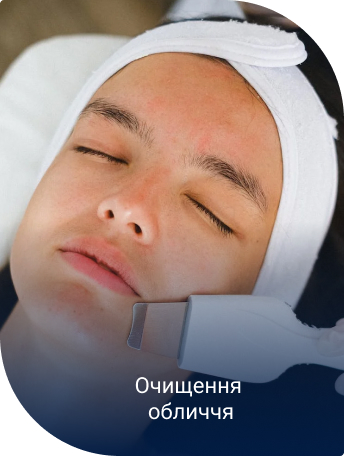
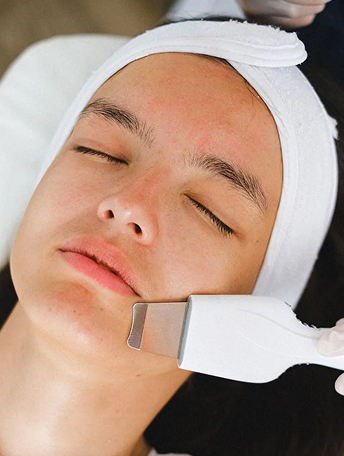
Refreshed adaptive feature in sections, replaced previous images with better quality ones and added design features to them.

diff --git a/scss/main.min.css b/scss/main.min.css
@@ -1,1 +1,1 @@
-@font-face{font-display:swap;font-family:"Play";font-style:normal;font-weight:400;src:url("../fonts/play-v19-latin-regular.woff2") format("woff2")}@font-face{font-display:swap;font-family:"Play";font-style:normal;font-weight:700;src:url("../fonts/play-v19-latin-700.woff2") format("woff2")}@font-face{font-display:swap;font-family:"Roboto";font-style:normal;font-weight:400;src:url("../fonts/roboto-v47-latin-regular.woff2") format("woff2")}@font-face{font-display:swap;font-family:"Roboto";font-style:normal;font-weight:600;src:url("../fonts/roboto-v47-latin-600.woff2") format("woff2")}:root{--color-primary-dark-blue: #011c44;--color-primary-light-blue: #2b7fff;--color-primary-white: #ffffff;--color-secondary-dark-blue: #011f4a;--color-secondary-light-gray: #747272;--color-secondary-dark-gray: #4a4a4a;--font-brand-primary: "Roboto", sans-serif;--font-brand-secondary: "Play", sans-serif}*,*::before,*::after{-webkit-box-sizing:border-box;box-sizing:border-box}body{margin:0;color:var(--color-primary-dark-blue);font-family:var(--font-brand-primary);font-weight:400}img{display:block;max-width:100%;height:auto;-o-object-fit:cover;object-fit:cover}h1,h2,h3,h4,h5,h6,p{margin-top:0}a{display:inline-block}address{font-style:normal}ul{margin:0;padding:0;list-style-type:none}.text-brand{color:var(--color-primary-light-blue)}.text-bold{font-weight:600}.text-capitalized{text-transform:capitalize}.visually-hidden{position:absolute;left:-10000px;top:auto;width:1px;height:1px;overflow:hidden}.button{margin-bottom:14px;padding:16px 32px;font-family:var(--font-brand-primary);font-weight:600;font-size:18px;line-height:1.2;letter-spacing:.7px;color:var(--color-primary-white);border-radius:32px;background-color:var(--color-primary-light-blue);border:2px solid var(--color-primary-light-blue);cursor:pointer;-webkit-transition:border .2s,background-color .2s,color .2s;transition:border .2s,background-color .2s,color .2s}.button:hover{border-color:var(--color-primary-light-blue);background-color:rgba(0,0,0,0);color:var(--color-primary-dark-blue)}.carousel-button{display:-webkit-box;display:-ms-flexbox;display:flex;-webkit-box-align:center;-ms-flex-align:center;align-items:center;-webkit-box-pack:center;-ms-flex-pack:center;justify-content:center;-ms-flex-negative:0;flex-shrink:0;width:44px;height:44px;padding:0;fill:var(--color-primary-dark-blue);background-color:rgba(0,0,0,0);border-radius:50%;border:1px solid var(--color-primary-dark-blue);cursor:pointer;-webkit-transition:background-color ease-out .5s,fill .3s,border .3s;transition:background-color ease-out .5s,fill .3s,border .3s}.carousel-button:hover{background-color:var(--color-primary-light-blue);fill:var(--color-primary-white);border:rgba(0,0,0,0)}.carousel-button.next{-webkit-transform:rotate(180deg);transform:rotate(180deg)}.input{position:relative}.input__label{position:absolute;top:18px;left:32px}.input__control{padding:16px 24px;width:100%;border:2px solid var(--color-secondary-light-gray);border-radius:32px;background-color:rgba(0,0,0,0)}@media screen and (min-width: 768px){.input__control{padding:18px 32px}}.input__control:focus{background-color:var(--color-secondary-light-gray);outline:none}.input__control::-webkit-input-placeholder{color:var(--color-primary-white);font-size:13px;line-height:1.5}.input__control::-moz-placeholder{color:var(--color-primary-white);font-size:13px;line-height:1.5}.input__control:-ms-input-placeholder{color:var(--color-primary-white);font-size:13px;line-height:1.5}.input__control::-ms-input-placeholder{color:var(--color-primary-white);font-size:13px;line-height:1.5}.input__control::placeholder{color:var(--color-primary-white);font-size:13px;line-height:1.5}.pagination{display:-webkit-box;display:-ms-flexbox;display:flex;-webkit-box-align:center;-ms-flex-align:center;align-items:center;-webkit-box-pack:center;-ms-flex-pack:center;justify-content:center;gap:24px}.pagination__button{width:12px;height:12px;padding:0;background-color:var(--color-secondary-light-gray);border-radius:50%}.pagination__button--active{background-color:var(--color-primary-light-blue)}.why-us-card__text{font-size:18px;line-height:1.3;text-align:center;color:#000}.why-us-card__icon{display:block;margin:0 auto;padding-bottom:8px;fill:var(--color-primary-light-blue)}.about-us-section{padding-top:0}@media screen and (min-width: 768px){.about-us-section{padding-top:63px}}.about-us-section__container{display:-webkit-box;display:-ms-flexbox;display:flex;-webkit-box-align:start;-ms-flex-align:start;align-items:flex-start;-webkit-box-pack:justify;-ms-flex-pack:justify;justify-content:space-between;gap:40px}.about-us-section__content{max-width:710px}.about-us-section__text{font-size:18px;line-height:1.7;color:var(--color-primary-dark-blue)}@media screen and (min-width: 768px){.about-us-section__text{font-size:22px;text-align:left}}.about-us-section__title{margin-bottom:24px;font-family:var(--font-brand-secondary);font-size:32px;font-weight:700;text-align:start;line-height:1.5}@media screen and (min-width: 768px){.about-us-section__title{font-size:64px;margin-bottom:40px}}.about-us-section__we-offer{margin-bottom:40px}.about-us-section__we-guarantee{margin-bottom:0}.about-us-section__woman-procedure{display:none}@media screen and (min-width: 1280px){.about-us-section__woman-procedure{position:relative;display:block}}.about-us-section__woman-before{border-radius:50%;-webkit-box-shadow:0 4px 4px 0 rgba(168,198,245,.2);box-shadow:0 4px 4px 0 rgba(168,198,245,.2);-webkit-transform:translateX(-169px);transform:translateX(-169px)}.about-us-section__icon-star-1{width:64px;height:64px;position:absolute;left:-50px;bottom:230px;fill:var(--color-secondary-dark-blue);-webkit-animation:scale 5s infinite linear;animation:scale 5s infinite linear}.about-us-section__icon-star-2{width:40px;height:40px;position:absolute;right:0;top:40px;fill:var(--color-primary-light-blue);-webkit-animation:scale 4s infinite linear;animation:scale 4s infinite linear}.about-us-section__icon-star-3{width:16px;height:16px;position:absolute;right:40px;top:260px;fill:var(--color-secondary-light-gray);-webkit-animation:scale 3s infinite linear;animation:scale 3s infinite linear}@-webkit-keyframes scale{0%{-webkit-transform:scale(1);transform:scale(1)}50%{-webkit-transform:scale(1.5);transform:scale(1.5)}100%{-webkit-transform:scale(1);transform:scale(1)}}@keyframes scale{0%{-webkit-transform:scale(1);transform:scale(1)}50%{-webkit-transform:scale(1.5);transform:scale(1.5)}100%{-webkit-transform:scale(1);transform:scale(1)}}.about-us-section__woman-after{border-radius:50%;-webkit-box-shadow:0 4px 4px 0 rgba(168,198,245,.2);box-shadow:0 4px 4px 0 rgba(168,198,245,.2);-webkit-transform:translateY(40px);transform:translateY(40px)}.contact-section{padding-bottom:0}@media screen and (min-width: 768px){.contact-section{padding-bottom:96px}}.contact-section__content{display:-webkit-box;display:-ms-flexbox;display:flex;-webkit-box-orient:vertical;-webkit-box-direction:normal;-ms-flex-direction:column;flex-direction:column;gap:24px}@media screen and (min-width: 768px){.contact-section__content{-webkit-box-orient:horizontal;-webkit-box-direction:normal;-ms-flex-direction:row;flex-direction:row;-webkit-box-pack:center;-ms-flex-pack:center;justify-content:center;max-width:1060px;margin:0 auto;gap:32px}}.contact-section__map{border:none;margin:0 -24px;height:232px;-ms-flex-negative:0;flex-shrink:0}@media screen and (min-width: 768px){.contact-section__map{margin:auto;border-radius:32px;width:420px;height:514px}}@media screen and (min-width: 1280px){.contact-section__map{width:604px;height:496px}}.contact-section__form-container{border-radius:32px;padding:48px 56px;background-image:url(../images/form-background.png);background-color:var(--color-primary-dark-blue);background-position:center;background-repeat:no-repeat;background-size:cover}.contact-section__form-title{margin-bottom:32px;font-size:22px;text-align:center;color:var(--color-primary-white)}.contact-section__form-field{margin-bottom:16px}.contact-section__button{display:block;margin:0 auto 8px;-webkit-transition:border .2s,background-color .2s,color .2s;transition:border .2s,background-color .2s,color .2s}.contact-section__button:hover{border-color:var(--color-primary-light-blue);background-color:rgba(0,0,0,0);color:var(--color-primary-white)}.container{width:100%;max-width:1288px;margin:0 auto;padding:0 24px}.footer{position:relative;padding:56px 0;background-image:url(../images/footer-background.png);background-color:var(--color-primary-dark-blue);background-position:center;background-repeat:no-repeat;background-size:cover}.footer::after{position:absolute;width:258px;height:152px;right:-10px;bottom:0;background-repeat:no-repeat;background-image:url("../images/decor-cosmetic-bottles.png");content:""}.footer__content{display:-webkit-box;display:-ms-flexbox;display:flex;-webkit-box-orient:vertical;-webkit-box-direction:normal;-ms-flex-direction:column;flex-direction:column}@media screen and (min-width: 768px){.footer__content{-webkit-box-orient:horizontal;-webkit-box-direction:normal;-ms-flex-direction:row;flex-direction:row;gap:50px}}.footer__nav,.footer__address{display:-webkit-box;display:-ms-flexbox;display:flex;-webkit-box-orient:vertical;-webkit-box-direction:normal;-ms-flex-direction:column;flex-direction:column;text-align:center}@media screen and (min-width: 768px){.footer__nav,.footer__address{-webkit-box-orient:horizontal;-webkit-box-direction:normal;-ms-flex-direction:row;flex-direction:row;text-align:left;-ms-flex-preferred-size:50%;flex-basis:50%;gap:50px}}.footer__logo,.footer__menu{-webkit-box-flex:1;-ms-flex-positive:1;flex-grow:1}.footer__logo{margin-bottom:42px}@media screen and (min-width: 768px){.footer__logo{margin-bottom:0}}.footer__address-list,.footer__address-info{-webkit-box-flex:1;-ms-flex-positive:1;flex-grow:1}.footer__address-list{display:none}@media screen and (min-width: 768px){.footer__address-list{display:block}}.footer__address-contacts{margin-bottom:16px}@media screen and (min-width: 768px){.footer__address-contacts{margin-bottom:0}}.footer__link,.footer__address-link{margin-bottom:16px;font-size:16px;color:var(--color-primary-white);text-decoration:none;-webkit-transition:color .2s;transition:color .2s}.footer__link:hover,.footer__link:hover,.footer__address-link:hover,.footer__address-link:hover{color:var(--color-primary-light-blue)}.footer__address-copyright{font-size:13px;color:var(--color-secondary-light-gray)}.footer__contact-icon{width:42px;height:42px;fill:var(--color-primary-white);-webkit-transition:fill .2s;transition:fill .2s}.footer__contact-icon:hover{fill:var(--color-primary-light-blue)}.form-terms{margin:0 auto;max-width:220px;font-size:12px;line-height:1.5;text-align:center;color:var(--color-secondary-light-gray)}.form-terms__link{color:var(--color-secondary-light-gray);-webkit-text-decoration-skip-ink:none;text-decoration-skip-ink:none}.header{padding:0;background:radial-gradient(circle at 18.7% 37.8%, rgb(255, 255, 250) 0%, rgb(245, 244, 244) 47%, rgb(208, 203, 200) 90%)}@media screen and (min-width: 1280px){.header{padding:32px 0;-webkit-backdrop-filter:blur(10px);backdrop-filter:blur(10px);position:absolute;top:0;left:0;width:100%;background:rgba(255,255,255,.25)}}.header__container{display:-webkit-box;display:-ms-flexbox;display:flex;-webkit-box-align:center;-ms-flex-align:center;align-items:center;gap:40px}.header__nav{display:-webkit-box;display:-ms-flexbox;display:flex;-webkit-box-align:center;-ms-flex-align:center;align-items:center;-webkit-box-flex:1;-ms-flex-positive:1;flex-grow:1;gap:40px}.header__menu{display:none}@media screen and (min-width: 1280px){.header__menu{display:-webkit-box;display:-ms-flexbox;display:flex;gap:56px;-webkit-box-flex:1;-ms-flex-positive:1;flex-grow:1;-webkit-box-pack:center;-ms-flex-pack:center;justify-content:center}}.header__link{color:var(--color-primary-dark-blue);font-weight:700;font-size:18px;text-decoration:none;-webkit-transition:color .2s;transition:color .2s}.header__link:hover{color:var(--color-primary-light-blue)}.header__contacts{display:none}@media screen and (min-width: 1280px){.header__contacts{display:-webkit-box;display:-ms-flexbox;display:flex;gap:32px}}.header__link-icon{width:32px;height:32px;fill:var(--color-primary-dark-blue);-webkit-transition:fill .2s;transition:fill .2s}.header__link-icon:hover{fill:var(--color-primary-light-blue)}.header__burger{width:24px;height:24px;padding:0;background-color:rgba(0,0,0,0);border:none;fill:var(--color-primary-white)}@media screen and (min-width: 1280px){.header__burger{display:none}}.hero-section{padding:86px 0 18px 0;background-image:linear-gradient(94deg, #fff 9.65%, rgba(255, 255, 255, 0.85) 26.08%, rgba(255, 255, 255, 0.19) 52.74%, rgba(255, 255, 255, 0) 74.46%),url("../images/hero-bg.jpg");background-repeat:no-repeat;background-position:center top;background-size:cover;height:400px;margin:0 auto}@media screen and (min-width: 768px){.hero-section{padding:126px 0 62px 0;max-width:1488px;height:658px}}@media screen and (min-device-pixel-ration: 2),(-webkit-min-device-pixel-ratio: 2),(min-resolution: 192dpi),(min-resolution: 2dppx){.hero-section{background-image:linear-gradient(94deg, #fff 9.65%, rgba(255, 255, 255, 0.85) 26.08%, rgba(255, 255, 255, 0.19) 52.74%, rgba(255, 255, 255, 0) 74.46%),url("../images/hero-bg@2x.jpg")}}@media screen and (min-width: 768px){.hero-section__content{padding-left:88px;max-width:530px}}.hero-section__text-1{margin-bottom:0;font-size:12px;text-align:center;line-height:1.5}@media screen and (min-width: 768px){.hero-section__text-1{margin-bottom:16px;font-size:18px;text-align:left}}.hero-section__title{margin-bottom:32px;font-family:var(--font-brand-secondary);font-weight:700;font-size:54px;text-align:center;line-height:.8;text-transform:capitalize;color:var(--color-primary-light-blue)}@media screen and (min-width: 768px){.hero-section__title{margin-bottom:40px;font-size:140px}}.hero-section__button{display:block;margin:0 auto 8px}@media screen and (min-width: 768px){.hero-section__button{margin:0 0 14px}}.hero-section__text-2{font-size:11px;line-height:1.5;text-align:center}@media screen and (min-width: 768px){.hero-section__text-2{padding-left:15px;text-align:left;font-size:12px;color:var(--color-secondary-dark-gray)}}.mobile-menu{position:fixed;top:0;left:0;width:100%;height:100%;background-color:var(--color-primary-white);-webkit-transform:translateX(100%);transform:translateX(100%);-webkit-transition:-webkit-transform .3s;transition:-webkit-transform .3s;transition:transform .3s;transition:transform .3s, -webkit-transform .3s}.mobile-menu.is-open{-webkit-transform:translateX(0);transform:translateX(0)}.mobile-menu__btn-close{position:absolute;top:22px;right:23px}.backdrop{position:fixed;top:0;left:0;right:0;bottom:0;padding:20px;display:-webkit-box;display:-ms-flexbox;display:flex;-webkit-box-align:center;-ms-flex-align:center;align-items:center;-webkit-box-pack:center;-ms-flex-pack:center;justify-content:center;background-color:rgba(137,149,167,.5);-webkit-transition:opacity .3s,visibility .3s;transition:opacity .3s,visibility .3s}.backdrop.is-hidden{opacity:0;visibility:hidden;pointer-events:none}.modal{position:relative;width:100%;max-width:724px;height:100%;max-height:680px;padding:20px 72px;background-image:url("../images/modal-background.png");background-color:var(--color-primary-dark-blue);border-radius:48px;overflow-y:auto}@media screen and (min-width: 768px){.modal{padding:42px 144px}}.modal__btn-close{position:absolute;top:42px;right:42px}.modal__order-call{margin-bottom:40px;font-weight:700;font-size:64px;text-align:center;color:var(--color-primary-white)}.modal__get-gift{margin-bottom:32px;font-weight:600;font-size:22px;text-align:center;color:var(--color-primary-white)}.modal__form-field{position:relative;margin-bottom:24px}.modal__button{display:block;margin:0 auto 8px}.modal__button:hover{color:var(--color-primary-white)}.procedures-section__slider{display:-webkit-box;display:-ms-flexbox;display:flex;-webkit-box-align:center;-ms-flex-align:center;align-items:center;-webkit-box-pack:center;-ms-flex-pack:center;justify-content:center;gap:32px}.procedures-section__container{overflow:hidden}.procedures-section__list{margin-bottom:32px}.procedures-section__button{display:none}@media screen and (min-width: 768px){.procedures-section__button{display:-webkit-box;display:-ms-flexbox;display:flex}}.section{padding:20px 0}@media screen and (min-width: 768px){.section{padding:48px 0}}.section__title{font-family:var(--font-brand-secondary);font-weight:700;font-size:32px;text-align:center;color:var(--color-primary-dark-blue);margin-bottom:24px}@media screen and (min-width: 768px){.section__title{font-size:64px;margin-bottom:48px}}.sections-background{background-image:url(../images/why-us-background.png);background-position:center top;background-repeat:no-repeat;background-size:cover;margin:0 auto;width:100%;max-width:1440px;height:100%;max-height:1507px}.why-us-section{padding-top:100px}@media screen and (min-width: 768px){.why-us-section{padding-top:176px}}.why-us-section__list{display:-webkit-box;display:-ms-flexbox;display:flex;-webkit-box-orient:vertical;-webkit-box-direction:normal;-ms-flex-direction:column;flex-direction:column;-webkit-box-align:center;-ms-flex-align:center;align-items:center;-ms-flex-wrap:wrap;flex-wrap:wrap;gap:16px}@media screen and (min-width: 768px){.why-us-section__list{-webkit-box-orient:horizontal;-webkit-box-direction:normal;-ms-flex-direction:row;flex-direction:row;-webkit-box-pack:center;-ms-flex-pack:center;justify-content:center;gap:56px}}.why-us-section__item{border:1px solid #0950d3;border-radius:32px;-webkit-box-shadow:0 4px 4px 0 rgba(168,198,245,.38);box-shadow:0 4px 4px 0 rgba(168,198,245,.38);background:var(--color-primary-white);padding:24px 32px;max-width:316px}/*# sourceMappingURL=main.min.css.map */
+@font-face{font-display:swap;font-family:"Play";font-style:normal;font-weight:400;src:url("../fonts/play-v19-latin-regular.woff2") format("woff2")}@font-face{font-display:swap;font-family:"Play";font-style:normal;font-weight:700;src:url("../fonts/play-v19-latin-700.woff2") format("woff2")}@font-face{font-display:swap;font-family:"Roboto";font-style:normal;font-weight:400;src:url("../fonts/roboto-v47-latin-regular.woff2") format("woff2")}@font-face{font-display:swap;font-family:"Roboto";font-style:normal;font-weight:600;src:url("../fonts/roboto-v47-latin-600.woff2") format("woff2")}:root{--color-primary-dark-blue: #011c44;--color-primary-light-blue: #2b7fff;--color-primary-white: #ffffff;--color-secondary-dark-blue: #011f4a;--color-secondary-light-gray: #747272;--color-secondary-dark-gray: #4a4a4a;--font-brand-primary: "Roboto", sans-serif;--font-brand-secondary: "Play", sans-serif}*,*::before,*::after{-webkit-box-sizing:border-box;box-sizing:border-box}html{scroll-behavior:smooth}body{margin:0 auto;color:var(--color-primary-dark-blue);font-family:var(--font-brand-primary);font-weight:400;line-height:1.5;max-width:1488px}img{display:block;max-width:100%;height:auto;-o-object-fit:cover;object-fit:cover}h1,h2,h3,h4,h5,h6,p{margin-top:0}a{display:inline-block}address{font-style:normal}ul{margin:0;padding:0;list-style-type:none}.text-brand{color:var(--color-primary-light-blue)}.text-bold{font-weight:600}.text-capitalized{text-transform:capitalize}.visually-hidden{position:absolute;left:-10000px;top:auto;width:1px;height:1px;overflow:hidden}.button{margin-bottom:14px;padding:16px 32px;font-family:var(--font-brand-primary);font-weight:600;font-size:18px;line-height:1.2;letter-spacing:.7px;color:var(--color-primary-white);border-radius:32px;background-color:var(--color-primary-light-blue);border:2px solid var(--color-primary-light-blue);cursor:pointer;-webkit-transition:border .2s,background-color .2s,color .2s;transition:border .2s,background-color .2s,color .2s}.button:hover{border-color:var(--color-primary-light-blue);background-color:rgba(0,0,0,0);color:var(--color-primary-dark-blue)}.carousel-button{display:-webkit-box;display:-ms-flexbox;display:flex;-webkit-box-align:center;-ms-flex-align:center;align-items:center;-webkit-box-pack:center;-ms-flex-pack:center;justify-content:center;-ms-flex-negative:0;flex-shrink:0;width:44px;height:44px;padding:0;fill:var(--color-primary-dark-blue);background-color:rgba(0,0,0,0);border-radius:50%;border:1px solid var(--color-primary-dark-blue);cursor:pointer;-webkit-transition:background-color ease-out .5s,fill .3s,border .3s;transition:background-color ease-out .5s,fill .3s,border .3s}.carousel-button:hover{background-color:var(--color-primary-light-blue);fill:var(--color-primary-white);border:rgba(0,0,0,0)}.carousel-button.next{-webkit-transform:rotate(180deg);transform:rotate(180deg)}.input{position:relative}.input__label{position:absolute;top:18px;left:32px}.input__control{padding:16px 24px;width:100%;border:2px solid var(--color-secondary-light-gray);border-radius:32px;background-color:rgba(0,0,0,0)}@media screen and (min-width: 768px){.input__control{padding:18px 32px}}.input__control:focus{background-color:var(--color-secondary-light-gray);outline:none}.input__control::-webkit-input-placeholder{color:var(--color-primary-white);font-size:13px;line-height:1.5}.input__control::-moz-placeholder{color:var(--color-primary-white);font-size:13px;line-height:1.5}.input__control:-ms-input-placeholder{color:var(--color-primary-white);font-size:13px;line-height:1.5}.input__control::-ms-input-placeholder{color:var(--color-primary-white);font-size:13px;line-height:1.5}.input__control::placeholder{color:var(--color-primary-white);font-size:13px;line-height:1.5}.pagination{display:-webkit-box;display:-ms-flexbox;display:flex;-webkit-box-align:center;-ms-flex-align:center;align-items:center;-webkit-box-pack:center;-ms-flex-pack:center;justify-content:center;gap:24px}.pagination__button{width:12px;height:12px;padding:0;background-color:var(--color-secondary-light-gray);border-radius:50%}.pagination__button--active{background-color:var(--color-primary-light-blue)}.procedures-card{position:relative;display:-webkit-box;display:-ms-flexbox;display:flex;-webkit-box-orient:vertical;-webkit-box-direction:normal;-ms-flex-direction:column;flex-direction:column;-webkit-box-pack:end;-ms-flex-pack:end;justify-content:flex-end;height:456px;padding:24px;background-image:-webkit-gradient(linear, left top, left bottom, color-stop(47.4%, rgba(1, 28, 68, 0)), color-stop(82.66%, rgba(1, 28, 68, 0.73)), color-stop(99.06%, var(--color-primary-dark-blue)));background-image:linear-gradient(180deg, rgba(1, 28, 68, 0) 47.4%, rgba(1, 28, 68, 0.73) 82.66%, var(--color-primary-dark-blue) 99.06%);border-radius:4px 120px;overflow:hidden}.procedures-card__img{position:absolute;z-index:-1;top:0;left:0;width:100%;height:100%}.procedures-card__title{font-size:22px;text-align:center;color:var(--color-primary-white)}.why-us-card__text{font-size:18px;line-height:1.3;text-align:center;color:#000}.why-us-card__icon{display:block;margin:0 auto;padding-bottom:8px;fill:var(--color-primary-light-blue)}.about-us-section{padding-top:0}@media screen and (min-width: 768px){.about-us-section{padding-top:63px}}.about-us-section__container{display:-webkit-box;display:-ms-flexbox;display:flex;-webkit-box-align:start;-ms-flex-align:start;align-items:flex-start;-webkit-box-pack:justify;-ms-flex-pack:justify;justify-content:space-between;gap:40px}.about-us-section__content{max-width:710px}.about-us-section__text{font-size:18px;line-height:1.7;color:var(--color-primary-dark-blue)}@media screen and (min-width: 768px){.about-us-section__text{font-size:22px;text-align:left}}.about-us-section__title{margin-bottom:24px;font-family:var(--font-brand-secondary);font-size:32px;font-weight:700;text-align:start}@media screen and (min-width: 768px){.about-us-section__title{font-size:64px;margin-bottom:40px}}.about-us-section__we-offer{margin-bottom:40px}.about-us-section__we-guarantee{margin-bottom:0}.about-us-section__woman-procedure{display:none}@media screen and (min-width: 1280px){.about-us-section__woman-procedure{position:relative;display:block}}.about-us-section__woman-before{border-radius:50%;-webkit-box-shadow:0 4px 4px 0 rgba(168,198,245,.2);box-shadow:0 4px 4px 0 rgba(168,198,245,.2);-webkit-transform:translateX(-169px);transform:translateX(-169px)}.about-us-section__icon-star-1{width:64px;height:64px;position:absolute;left:-50px;bottom:230px;fill:var(--color-secondary-dark-blue);-webkit-animation:scale 5s infinite linear;animation:scale 5s infinite linear}.about-us-section__icon-star-2{width:40px;height:40px;position:absolute;right:0;top:40px;fill:var(--color-primary-light-blue);-webkit-animation:scale 4s infinite linear;animation:scale 4s infinite linear}.about-us-section__icon-star-3{width:16px;height:16px;position:absolute;right:40px;top:260px;fill:var(--color-secondary-light-gray);-webkit-animation:scale 3s infinite linear;animation:scale 3s infinite linear}@-webkit-keyframes scale{0%{-webkit-transform:scale(1);transform:scale(1)}50%{-webkit-transform:scale(1.5);transform:scale(1.5)}100%{-webkit-transform:scale(1);transform:scale(1)}}@keyframes scale{0%{-webkit-transform:scale(1);transform:scale(1)}50%{-webkit-transform:scale(1.5);transform:scale(1.5)}100%{-webkit-transform:scale(1);transform:scale(1)}}.about-us-section__woman-after{border-radius:50%;-webkit-box-shadow:0 4px 4px 0 rgba(168,198,245,.2);box-shadow:0 4px 4px 0 rgba(168,198,245,.2);-webkit-transform:translateY(40px);transform:translateY(40px)}.contact-section{padding-bottom:0}@media screen and (min-width: 768px){.contact-section{padding-bottom:96px}}.contact-section__content{display:-webkit-box;display:-ms-flexbox;display:flex;-webkit-box-orient:vertical;-webkit-box-direction:normal;-ms-flex-direction:column;flex-direction:column;gap:24px}@media screen and (min-width: 768px){.contact-section__content{-webkit-box-orient:horizontal;-webkit-box-direction:normal;-ms-flex-direction:row;flex-direction:row;-webkit-box-pack:center;-ms-flex-pack:center;justify-content:center;max-width:1060px;margin:0 auto;gap:32px}}.contact-section__map{border:none;margin:0 -24px;height:232px;-ms-flex-negative:0;flex-shrink:0}@media screen and (min-width: 768px){.contact-section__map{margin:auto;border-radius:32px;width:420px;height:514px}}@media screen and (min-width: 1280px){.contact-section__map{width:604px;height:496px}}.contact-section__form-container{border-radius:32px;padding:48px 56px;background-image:url(../images/form-background.png);background-color:var(--color-primary-dark-blue);background-position:center;background-repeat:no-repeat;background-size:cover}.contact-section__form-title{margin-bottom:32px;font-size:22px;text-align:center;color:var(--color-primary-white)}.contact-section__form-field{margin-bottom:16px}.contact-section__button{display:block;margin:0 auto 8px;-webkit-transition:border .2s,background-color .2s,color .2s;transition:border .2s,background-color .2s,color .2s}.contact-section__button:hover{border-color:var(--color-primary-light-blue);background-color:rgba(0,0,0,0);color:var(--color-primary-white)}.container{width:100%;max-width:1288px;margin:0 auto;padding:0 24px}.footer{position:relative;padding:56px 0;background-image:url(../images/footer-background.png);background-color:var(--color-primary-dark-blue);background-position:center;background-repeat:no-repeat;background-size:cover}.footer::after{position:absolute;width:258px;height:152px;right:-10px;bottom:0;background-repeat:no-repeat;background-image:url("../images/decor-cosmetic-bottles.png");content:""}.footer__content{display:-webkit-box;display:-ms-flexbox;display:flex;-webkit-box-orient:vertical;-webkit-box-direction:normal;-ms-flex-direction:column;flex-direction:column}@media screen and (min-width: 768px){.footer__content{-webkit-box-orient:horizontal;-webkit-box-direction:normal;-ms-flex-direction:row;flex-direction:row;gap:50px}}.footer__nav,.footer__address{display:-webkit-box;display:-ms-flexbox;display:flex;-webkit-box-orient:vertical;-webkit-box-direction:normal;-ms-flex-direction:column;flex-direction:column;text-align:center}@media screen and (min-width: 768px){.footer__nav,.footer__address{-webkit-box-orient:horizontal;-webkit-box-direction:normal;-ms-flex-direction:row;flex-direction:row;text-align:left;-ms-flex-preferred-size:50%;flex-basis:50%;gap:50px}}.footer__logo,.footer__menu{-webkit-box-flex:1;-ms-flex-positive:1;flex-grow:1}.footer__logo{margin-bottom:42px}@media screen and (min-width: 768px){.footer__logo{margin-bottom:0}}.footer__address-list,.footer__address-info{-webkit-box-flex:1;-ms-flex-positive:1;flex-grow:1}.footer__address-list{display:none}@media screen and (min-width: 768px){.footer__address-list{display:block}}.footer__address-contacts{margin-bottom:16px}@media screen and (min-width: 768px){.footer__address-contacts{margin-bottom:0}}.footer__link,.footer__address-link{margin-bottom:16px;font-size:16px;color:var(--color-primary-white);text-decoration:none;-webkit-transition:color .2s;transition:color .2s}.footer__link:hover,.footer__link:hover,.footer__address-link:hover,.footer__address-link:hover{color:var(--color-primary-light-blue)}.footer__address-copyright{font-size:13px;color:var(--color-secondary-light-gray)}.footer__contact-icon{width:42px;height:42px;fill:var(--color-primary-white);-webkit-transition:fill .2s;transition:fill .2s}.footer__contact-icon:hover{fill:var(--color-primary-light-blue)}.form-terms{margin:0 auto;max-width:220px;font-size:12px;line-height:1.5;text-align:center;color:var(--color-secondary-light-gray)}.form-terms__link{color:var(--color-secondary-light-gray);-webkit-text-decoration-skip-ink:none;text-decoration-skip-ink:none}.header{position:absolute;top:0;left:0;width:100%;padding-top:16px}@media screen and (min-width: 1280px){.header{padding:32px 0;-webkit-backdrop-filter:blur(10px);backdrop-filter:blur(10px);position:absolute;background:rgba(255,255,255,.25)}}.header__container{display:-webkit-box;display:-ms-flexbox;display:flex;-webkit-box-align:center;-ms-flex-align:center;align-items:center;gap:40px}.header__nav{display:-webkit-box;display:-ms-flexbox;display:flex;-webkit-box-align:center;-ms-flex-align:center;align-items:center;-webkit-box-flex:1;-ms-flex-positive:1;flex-grow:1;gap:40px}.header__menu{display:none}@media screen and (min-width: 1280px){.header__menu{display:-webkit-box;display:-ms-flexbox;display:flex;gap:56px;-webkit-box-flex:1;-ms-flex-positive:1;flex-grow:1;-webkit-box-pack:center;-ms-flex-pack:center;justify-content:center}}.header__link{color:var(--color-primary-dark-blue);font-weight:700;font-size:18px;text-decoration:none;-webkit-transition:color .2s;transition:color .2s}.header__link:hover{color:var(--color-primary-light-blue)}.header__contacts{display:none}@media screen and (min-width: 1280px){.header__contacts{display:-webkit-box;display:-ms-flexbox;display:flex;gap:32px}}.header__link-icon{width:32px;height:32px;fill:var(--color-primary-dark-blue);-webkit-transition:fill .2s;transition:fill .2s}.header__link-icon:hover{fill:var(--color-primary-light-blue)}.header__burger{width:24px;height:24px;padding:0;background-color:rgba(0,0,0,0);border:none;fill:var(--color-primary-white)}@media screen and (min-width: 1280px){.header__burger{display:none}}.hero-section{padding:150px 0 40px 0;background-image:linear-gradient(38deg, #fff 0%, rgba(255, 255, 255, 0.78) 31.23%, rgba(255, 255, 255, 0.2) 50.39%, rgba(255, 255, 255, 0) 68.37%),url("../images/hero-bg.jpg");background-repeat:no-repeat;background-position:center top;background-size:cover}@media screen and (min-width: 768px){.hero-section{padding:166px 0}}@media screen and (min-device-pixel-ration: 2),(-webkit-min-device-pixel-ratio: 2),(min-resolution: 192dpi),(min-resolution: 2dppx){.hero-section{background-image:linear-gradient(38deg, #fff 0%, rgba(255, 255, 255, 0.78) 31.23%, rgba(255, 255, 255, 0.2) 50.39%, rgba(255, 255, 255, 0) 68.37%),url("../images/hero-bg@2x.jpg")}}@media screen and (min-width: 768px){.hero-section__content{padding-left:88px;max-width:530px}}.hero-section__text-1{margin-bottom:0;font-size:12px;text-align:center}@media screen and (min-width: 768px){.hero-section__text-1{margin-bottom:16px;font-size:18px;text-align:left}}.hero-section__title{margin-bottom:32px;font-family:var(--font-brand-secondary);font-weight:700;font-size:54px;text-align:center;line-height:.8;text-transform:capitalize;color:var(--color-primary-light-blue)}@media screen and (min-width: 768px){.hero-section__title{margin-bottom:40px;font-size:140px}}.hero-section__button{display:block;margin:0 auto 8px}@media screen and (min-width: 768px){.hero-section__button{margin:0 0 14px}}.hero-section__text-2{font-size:11px;text-align:center}@media screen and (min-width: 768px){.hero-section__text-2{padding-left:15px;text-align:left;font-size:12px;color:var(--color-secondary-dark-gray)}}.mobile-menu{position:fixed;top:0;left:0;width:100%;height:100%;background-color:var(--color-primary-white);-webkit-transform:translateX(100%);transform:translateX(100%);-webkit-transition:-webkit-transform .3s;transition:-webkit-transform .3s;transition:transform .3s;transition:transform .3s, -webkit-transform .3s}.mobile-menu.is-open{-webkit-transform:translateX(0);transform:translateX(0)}.mobile-menu__btn-close{position:absolute;top:22px;right:23px}.backdrop{position:fixed;top:0;left:0;right:0;bottom:0;padding:20px;display:-webkit-box;display:-ms-flexbox;display:flex;-webkit-box-align:center;-ms-flex-align:center;align-items:center;-webkit-box-pack:center;-ms-flex-pack:center;justify-content:center;background-color:rgba(137,149,167,.5);-webkit-transition:opacity .3s,visibility .3s;transition:opacity .3s,visibility .3s}.backdrop.is-hidden{opacity:0;visibility:hidden;pointer-events:none}.modal{position:relative;width:100%;max-width:724px;height:100%;max-height:680px;padding:20px 72px;background-image:url("../images/modal-background.png");background-color:var(--color-primary-dark-blue);border-radius:48px;overflow-y:auto}@media screen and (min-width: 768px){.modal{padding:42px 144px}}.modal__btn-close{position:absolute;top:42px;right:42px}.modal__order-call{margin-bottom:40px;font-weight:700;font-size:64px;text-align:center;color:var(--color-primary-white)}.modal__get-gift{margin-bottom:32px;font-weight:600;font-size:22px;text-align:center;color:var(--color-primary-white)}.modal__form-field{position:relative;margin-bottom:24px}.modal__button{display:block;margin:0 auto 8px}.modal__button:hover{color:var(--color-primary-white)}.procedures-section__slider{display:-webkit-box;display:-ms-flexbox;display:flex;-webkit-box-align:center;-ms-flex-align:center;align-items:center;gap:32px}.procedures-section__container{overflow:hidden}.procedures-section__list{margin-bottom:32px}.procedures-section__button{display:none}@media screen and (min-width: 768px){.procedures-section__button{display:-webkit-box;display:-ms-flexbox;display:flex}}.section{padding:20px 0}@media screen and (min-width: 768px){.section{padding:48px 0}}.section__title{font-family:var(--font-brand-secondary);font-weight:700;font-size:32px;text-align:center;color:var(--color-primary-dark-blue);margin-bottom:24px}@media screen and (min-width: 768px){.section__title{font-size:64px;margin-bottom:48px}}.sections-background{background-image:url(../images/why-us-background.png);background-position:center top;background-repeat:no-repeat;background-size:cover;margin:0 auto;width:100%;max-width:1440px;height:100%;max-height:1507px}.why-us-section{padding-top:100px}@media screen and (min-width: 768px){.why-us-section{padding-top:176px}}.why-us-section__list{display:-webkit-box;display:-ms-flexbox;display:flex;-webkit-box-orient:vertical;-webkit-box-direction:normal;-ms-flex-direction:column;flex-direction:column;-webkit-box-align:center;-ms-flex-align:center;align-items:center;-ms-flex-wrap:wrap;flex-wrap:wrap;gap:16px}@media screen and (min-width: 768px){.why-us-section__list{-webkit-box-orient:horizontal;-webkit-box-direction:normal;-ms-flex-direction:row;flex-direction:row;-webkit-box-pack:center;-ms-flex-pack:center;justify-content:center;gap:56px}}.why-us-section__item{border:1px solid #0950d3;border-radius:32px;-webkit-box-shadow:0 4px 4px 0 rgba(168,198,245,.38);box-shadow:0 4px 4px 0 rgba(168,198,245,.38);background:var(--color-primary-white);padding:24px 32px;max-width:316px}/*# sourceMappingURL=main.min.css.map */

diff --git a/index.html b/index.html
@@ -226,20 +226,21 @@
               <div class="procedures-section__container swiper-container">
                 <ul class="procedures-section__list swiper-wrapper">
                   <li class="swiper-slide">
-                    <article>
+                    <article class="procedures-card">
                       <img
                         srcset="
                           ./images/face-mask.jpg    1x,
                           ./images/face-mask@2x.jpg 2x
                         "
                         class="procedures-card__img"
-                        src="./images/face-mask.jpg"
+                        src="./images/face-mask2.jpg"
                         alt="Жінка з маскою на обличчі"
                       />
+                      <h3 class="procedures-card__title">Маски для обличчя</h3>
                     </article>
                   </li>
                   <li class="swiper-slide">
-                    <article>
+                    <article class="procedures-card">
                       <img
                         srcset="
                           ./images/face-injection.jpg    1x,
@@ -249,10 +250,13 @@
                         src="./images/face-injection.jpg"
                         alt="Жінка, якій роблять ін'єкцію на обличчі"
                       />
+                      <h3 class="procedures-card__title">
+                        Ін'єкції для обличчя
+                      </h3>
                     </article>
                   </li>
                   <li class="swiper-slide">
-                    <article>
+                    <article class="procedures-card">
                       <img
                         srcset="
                           ./images/face-cleaning.jpg    1x,
@@ -262,23 +266,25 @@
                         src="./images/face-cleaning.jpg"
                         alt="Жінка, якій роблять чистку обличчя"
                       />
+                      <h3 class="procedures-card__title">Очищення обличчя</h3>
                     </article>
                   </li>
                   <li class="swiper-slide">
-                    <article>
+                    <article class="procedures-card">
                       <img
                         srcset="
                           ./images/face-mask.jpg    1x,
                           ./images/face-mask@2x.jpg 2x
                         "
                         class="procedures-card__img"
-                        src="./images/face-mask.jpg"
+                        src="./images/face-mask2.jpg"
                         alt="Жінка з маскою на обличчі"
                       />
+                      <h3 class="procedures-card__title">Маски для обличчя</h3>
                     </article>
                   </li>
                   <li class="swiper-slide">
-                    <article>
+                    <article class="procedures-card">
                       <img
                         srcset="
                           ./images/face-injection.jpg    1x,
@@ -288,10 +294,13 @@
                         src="./images/face-injection.jpg"
                         alt="Жінка, якій роблять ін'єкцію на обличчі"
                       />
+                      <h3 class="procedures-card__title">
+                        Ін'єкції для обличчя
+                      </h3>
                     </article>
                   </li>
                   <li class="swiper-slide">
-                    <article>
+                    <article class="procedures-card">
                       <img
                         srcset="
                           ./images/face-cleaning.jpg    1x,
@@ -301,6 +310,7 @@
                         src="./images/face-cleaning.jpg"
                         alt="Жінка, якій роблять чистку обличчя"
                       />
+                      <h3 class="procedures-card__title">Очищення обличчя</h3>
                     </article>
                   </li>
                 </ul>

diff --git a/scss/layouts/_hero-section.scss b/scss/layouts/_hero-section.scss
@@ -1,34 +1,30 @@
 .hero-section {
-  padding: 86px 0 18px 0;
+  padding: 150px 0 40px 0;
   background-image: linear-gradient(
-      94deg,
-      #fff 9.65%,
-      rgba(255, 255, 255, 0.85) 26.08%,
-      rgba(255, 255, 255, 0.19) 52.74%,
-      rgba(255, 255, 255, 0) 74.46%
+      38deg,
+      #fff 0%,
+      rgba(255, 255, 255, 0.78) 31.23%,
+      rgba(255, 255, 255, 0.2) 50.39%,
+      rgba(255, 255, 255, 0) 68.37%
     ),
     url("../images/hero-bg.jpg");
   background-repeat: no-repeat;
   background-position: center top;
   background-size: cover;
-  height: 400px;
-  margin: 0 auto;
 
   @media screen and (min-width: $bp-tablet) {
-    padding: 126px 0 62px 0;
-    max-width: 1488px;
-    height: 658px;
+    padding: 166px 0;
   }
 
   @media screen and (min-device-pixel-ration: 2),
     (min-resolution: 192dpi),
     (min-resolution: 2dppx) {
     background-image: linear-gradient(
-        94deg,
-        #fff 9.65%,
-        rgba(255, 255, 255, 0.85) 26.08%,
-        rgba(255, 255, 255, 0.19) 52.74%,
-        rgba(255, 255, 255, 0) 74.46%
+        38deg,
+        #fff 0%,
+        rgba(255, 255, 255, 0.78) 31.23%,
+        rgba(255, 255, 255, 0.2) 50.39%,
+        rgba(255, 255, 255, 0) 68.37%
       ),
       url("../images/hero-bg@2x.jpg");
   }
@@ -44,7 +40,6 @@
     margin-bottom: 0;
     font-size: 12px;
     text-align: center;
-    line-height: 1.5;
 
     @media screen and (min-width: $bp-tablet) {
       margin-bottom: 16px;
@@ -80,7 +75,6 @@
 
   &__text-2 {
     font-size: 11px;
-    line-height: 1.5;
     text-align: center;
 
     @media screen and (min-width: $bp-tablet) {

diff --git a/scss/components/_procedures-card.scss b/scss/components/_procedures-card.scss
@@ -1,0 +1,31 @@
+.procedures-card {
+  position: relative;
+  display: flex;
+  flex-direction: column;
+  justify-content: flex-end;
+  height: 456px;
+  padding: 24px;
+  background-image: linear-gradient(
+    180deg,
+    rgba(1, 28, 68, 0) 47.4%,
+    rgba(1, 28, 68, 0.73) 82.66%,
+    var(--color-primary-dark-blue) 99.06%
+  );
+  border-radius: 4px 120px;
+  overflow: hidden;
+
+  &__img {
+    position: absolute;
+    z-index: -1;
+    top: 0;
+    left: 0;
+    width: 100%;
+    height: 100%;
+  }
+
+  &__title {
+    font-size: 22px;
+    text-align: center;
+    color: var(--color-primary-white);
+  }
+}

diff --git a/scss/layouts/_header.scss b/scss/layouts/_header.scss
@@ -1,19 +1,14 @@
 .header {
-  padding: 0;
-  background: radial-gradient(
-    circle at 18.7% 37.8%,
-    rgb(255, 255, 250) 0%,
-    rgb(245, 244, 244) 47%,
-    rgb(208, 203, 200) 90%
-  );
+  position: absolute;
+  top: 0;
+  left: 0;
+  width: 100%;
+  padding-top: 16px;
 
   @media screen and (min-width: $bp-desktop) {
     padding: 32px 0;
     backdrop-filter: blur(10px);
     position: absolute;
-    top: 0;
-    left: 0;
-    width: 100%;
     background: rgba(255, 255, 255, 0.25);
   }
 

diff --git a/scss/_base.scss b/scss/_base.scss
@@ -4,12 +4,17 @@
   box-sizing: border-box;
 }
 
+html {
+  scroll-behavior: smooth;
+}
+
 body {
-  margin: 0;
+  margin: 0 auto;
   color: var(--color-primary-dark-blue);
   font-family: var(--font-brand-primary);
   font-weight: 400;
-  /* max-width: 1440px; */
+  line-height: 1.5;
+  max-width: 1488px;
 }
 
 img {

diff --git a/scss/main.scss b/scss/main.scss
@@ -8,6 +8,7 @@
 @import "./components/carousel-button";
 @import "./components/input";
 @import "./components/pagination";
+@import "./components/procedures-card";
 @import "./components/why-us-card";
 
 @import "./layouts/about-us-section";

diff --git a/scss/layouts/_about-us-section.scss b/scss/layouts/_about-us-section.scss
@@ -33,7 +33,6 @@
     font-size: 32px;
     font-weight: 700;
     text-align: start;
-    line-height: 1.5;
 
     @media screen and (min-width: $bp-tablet) {
       font-size: 64px;

diff --git a/scss/layouts/_procedures-section.scss b/scss/layouts/_procedures-section.scss
@@ -2,7 +2,6 @@
   &__slider {
     display: flex;
     align-items: center;
-    justify-content: center;
     gap: 32px;
   }
 
